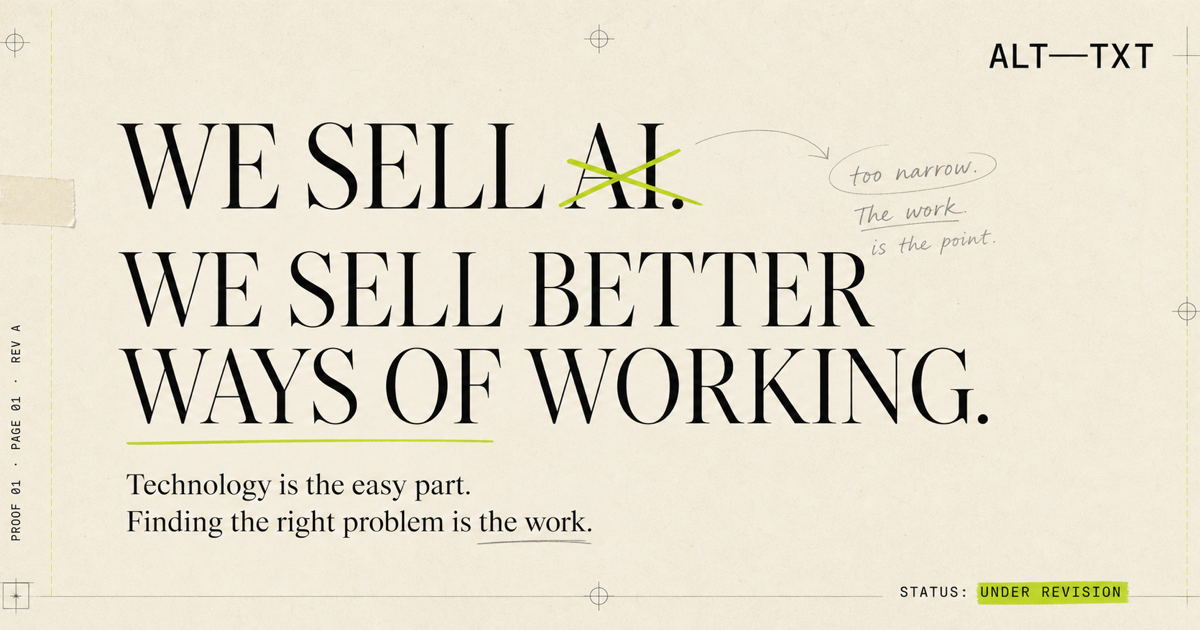
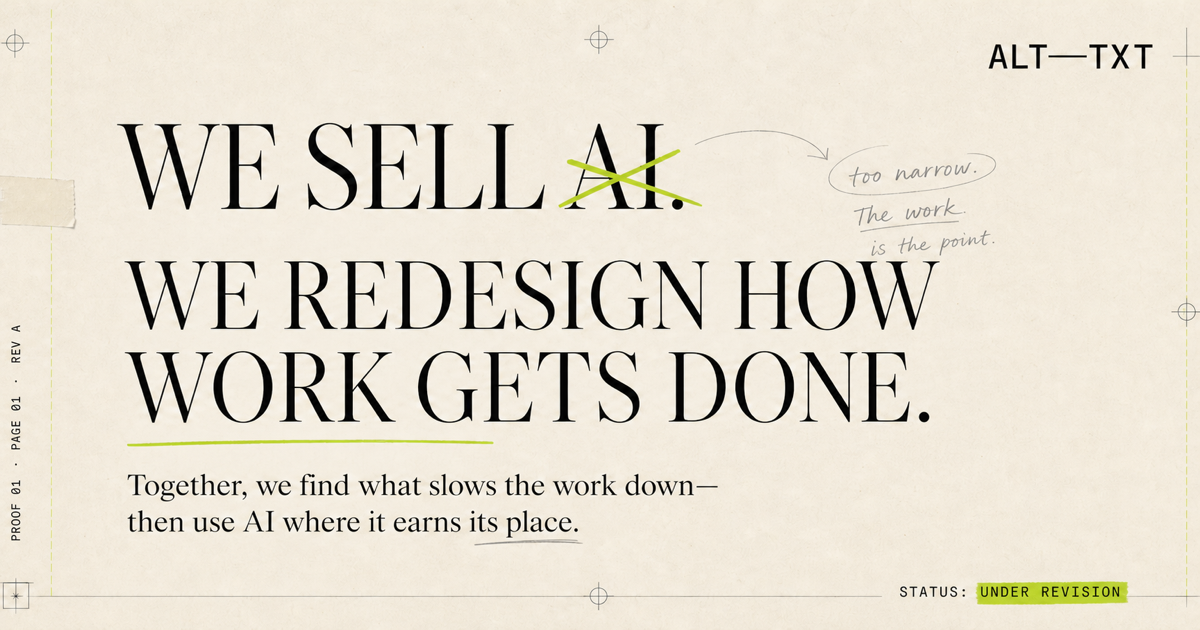
wip

diff --git a/app/layout.tsx b/app/layout.tsx
@@ -7,11 +7,11 @@ import "./globals.css";
 const fallbackOrigin = "https://alt-txt.com";
 
 const siteName = "Alt-TXT";
-const defaultTitle = "Alt-TXT — Better ways of working";
+const defaultTitle = "Alt-TXT | Redesigning how work gets done";
 const defaultDescription =
-  "Alt-TXT is an intelligence lab that redesigns how companies work — finding leverage, protecting judgment, and building systems where AI is the tool, not the pitch.";
+  "Alt-TXT is an intelligence lab that redesigns how companies work: finding leverage, protecting judgment, and building systems where AI is the tool, not the pitch.";
 const ogDescription =
-  "We sell better ways of working. AI is today’s best tool—not the pitch.";
+  "We redesign how work gets done. AI is today’s best tool, not the pitch.";
 
 export const viewport: Viewport = {
   width: "device-width",
@@ -72,7 +72,7 @@ export async function generateMetadata(): Promise<Metadata> {
     metadataBase: new URL(origin),
     title: {
       default: defaultTitle,
-      template: `%s — ${siteName}`,
+      template: `%s | ${siteName}`,
     },
     description: defaultDescription,
     applicationName: siteName,
@@ -122,7 +122,7 @@ export async function generateMetadata(): Promise<Metadata> {
           url: socialImage,
           width: 1200,
           height: 630,
-          alt: "Alt-TXT proof sheet: We sell better ways of working, not AI.",
+          alt: "Alt-TXT proof sheet: We redesign how work gets done.",
           type: "image/png",
         },
       ],
@@ -134,12 +134,9 @@ export async function generateMetadata(): Promise<Metadata> {
       images: [
         {
           url: socialImage,
-          alt: "Alt-TXT proof sheet: We sell better ways of working, not AI.",
+          alt: "Alt-TXT proof sheet: We redesign how work gets done.",
         },
       ],
-    },
-    other: {
-      "theme-color": "#e8e6e1",
     },
   };
 }

diff --git a/app/page.tsx b/app/page.tsx
@@ -12,7 +12,7 @@ const principles = [
   {
     index: "01",
     assumption: "We sell AI.",
-    title: "We sell better ways of working.",
+    title: "We redesign how work gets done.",
     body: "AI is today’s best tool. It still has to earn its place in the system.",
   },
   {
@@ -201,9 +201,10 @@ export default function Home() {
             <p className="hero-premise">
               <del>We sell AI.</del>
             </p>
-            <h1 className="hero-title">We sell better ways of working.</h1>
+            <h1 className="hero-title">We redesign how work gets done.</h1>
             <p className="hero-support">
-              We redesign slow decisions and handoffs—then use AI where it earns its place.
+              Together, we find the decisions and handoffs slowing you down. Then we use AI
+              where it earns its place.
             </p>
             <div className="hero-actions">
               <a
@@ -258,8 +259,9 @@ export default function Home() {
             <p className="section-kicker">A working manifesto</p>
             <h2 id="manifesto-title">Question the assumption. Keep what matters.</h2>
             <p className="section-support">
-              Most AI projects start with an answer already chosen. We step back, find the real
-              problem, then design the right system.
+              Most AI projects start with an answer already chosen. We start with the people
+              closest to the work, find the friction together, then design a system around what
+              matters.
             </p>
           </div>
 

diff --git a/app/manifest.ts b/app/manifest.ts
@@ -5,7 +5,7 @@ export default function manifest(): MetadataRoute.Manifest {
     name: "Alt-TXT",
     short_name: "Alt-TXT",
     description:
-      "An intelligence lab that redesigns how companies work — AI is the tool, not the pitch.",
+      "An intelligence lab that redesigns how companies work. AI is the tool, not the pitch.",
     start_url: "/",
     display: "standalone",
     background_color: "#e8e6e1",

diff --git a/README.md b/README.md
@@ -1,14 +1,14 @@
-# Alt-TXT — Better Ways of Working
+# Alt-TXT: Redesigning How Work Gets Done
 
 Alt-TXT’s digital presence behaves like an editorial proof sheet rather than a
 conventional consultancy homepage. It removes the premature AI premise, makes
 the working manifesto visible, and presents live projects as experiments with
-questions and findings—not portfolio theatre.
+questions and findings rather than portfolio theatre.
 
 ## Experience
 
-- The opening visibly revises “We sell AI” into “We sell better ways of
-  working.”
+- The opening visibly revises “We sell AI” into “We redesign how work gets
+  done.”
 - Four assumption-to-revision pairs turn the manifesto into the page’s main
   structure.
 - Krekib and CeJour appear as experiment traces led by what each one taught us.